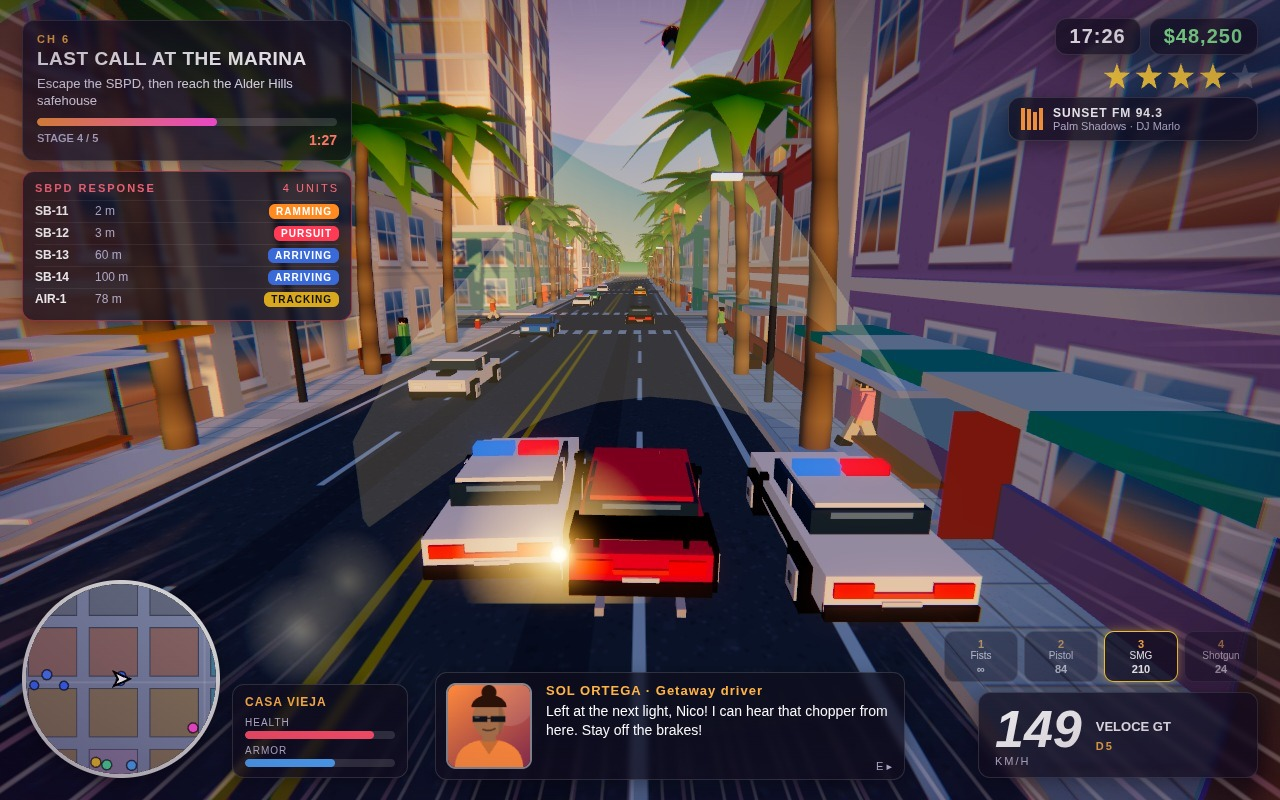
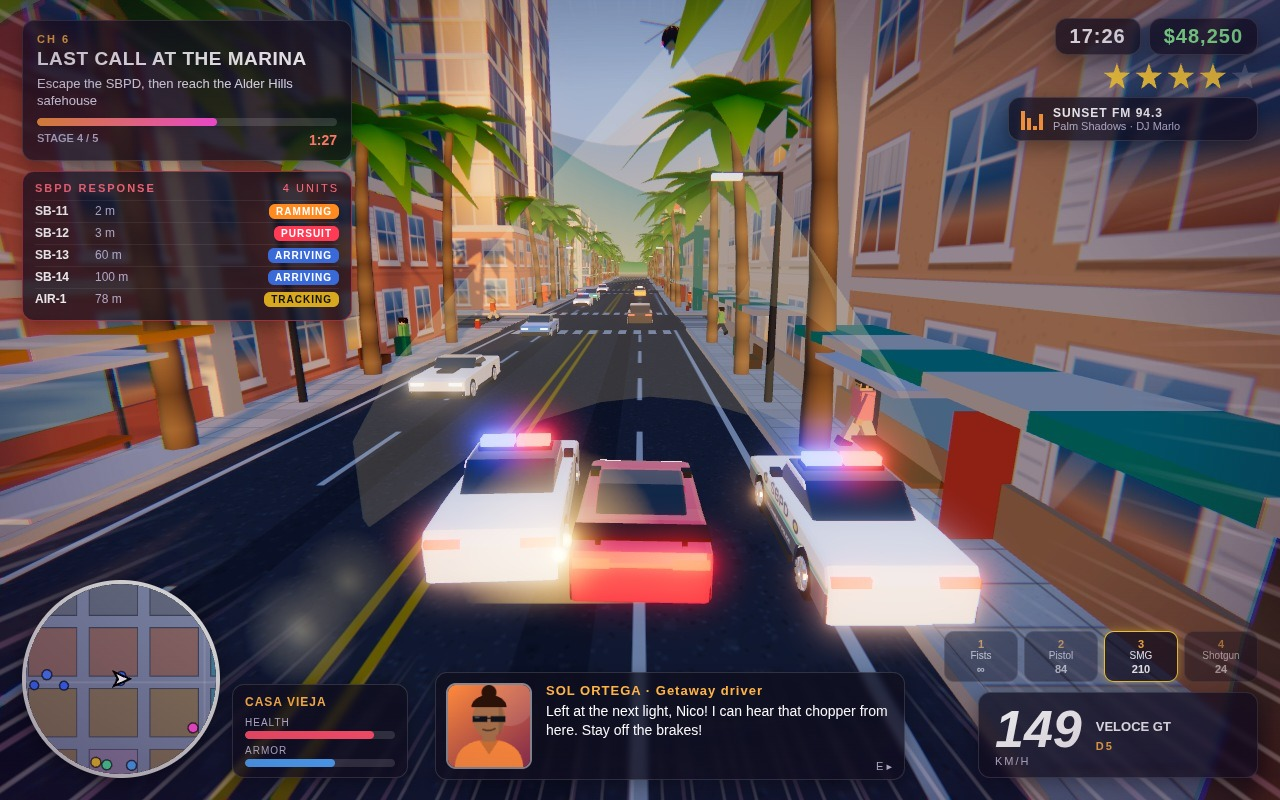
Sleek extruded-profile vehicles, clearcoat paint, env reflections, SBPD livery, HDR light bars

Changed region(s): [[0.1875, 0.0, 1.0, 0.875], [0.9375, 0.625, 0.9688, 0.7188], [0.1562, 0.1875, 0.2188, 0.2188]]

diff --git a/game/src/vehicles/vehicleModels.js b/game/src/vehicles/vehicleModels.js
@@ -1,47 +1,141 @@
-// Original car models built from boxes: shared merged geometry per model, tinted body material per colour.
+// Original low-poly car models: each body is an extruded, bevelled side profile with real wheel arches, a tinted glass
+// greenhouse, body-colour roof, spoked rims, HDR head/tail lights (bloom) and clearcoat paint lit by a sky environment map.
+// The SBPD interceptor wears a canvas-drawn livery (white, navy skirt, teal stripe, SBPD decal) and a red/blue light bar.
 import * as THREE from 'three';
 import { newBuf, pushBox, toGeometry } from '../core/geometryUtils.js';
+import { canvasTex } from '../world/textureFactory.js';
+import { G } from '../core/gameState.js';
 
 export const CAR_TYPES = {
-  veloce: { name: 'Veloce GT', len: 4.5, wid: 1.95, cab: [0.4, 0.38, -0.3], roof: 1.2, max: 62, acc: 24, grip: 7, steer: 0.62, hp: 900, tint: 0xe83a5c },
-  marlin: { name: 'Marlin Sedan', len: 4.7, wid: 1.9, cab: [0.5, 0.5, -0.15], roof: 1.4, max: 40, acc: 15, grip: 8, steer: 0.6, hp: 1000, tint: 0x2f7fd8 },
-  tupelo: { name: 'Tupelo Cab', len: 4.7, wid: 1.9, cab: [0.5, 0.5, -0.15], roof: 1.4, max: 40, acc: 15, grip: 8, steer: 0.6, hp: 1000, tint: 0xf2c230 },
-  cadia: { name: 'Cadia Pickup', len: 5.1, wid: 2.0, cab: [0.34, 0.6, 0.55], roof: 1.7, max: 38, acc: 14, grip: 7, steer: 0.55, hp: 1100, tint: 0x2fb89a },
-  hawke: { name: 'Hawke SUV', len: 4.9, wid: 2.0, cab: [0.62, 0.62, -0.1], roof: 1.75, max: 42, acc: 16, grip: 7.5, steer: 0.55, hp: 1300, tint: 0x222831 },
-  rumble: { name: 'Rumble 69', len: 4.8, wid: 1.95, cab: [0.42, 0.42, -0.25], roof: 1.3, max: 52, acc: 22, grip: 6, steer: 0.6, hp: 1000, tint: 0xff8a3d },
-  interceptor: { name: 'SBPD Interceptor', len: 4.8, wid: 1.95, cab: [0.46, 0.46, -0.15], roof: 1.4, max: 52, acc: 20, grip: 8, steer: 0.62, hp: 900, tint: 0xffffff, police: true },
+  veloce: { name: 'Veloce GT', len: 4.5, wid: 1.95, roof: 1.2, max: 62, acc: 24, grip: 7, steer: 0.62, hp: 900, tint: 0xe83a5c },
+  marlin: { name: 'Marlin Sedan', len: 4.7, wid: 1.9, roof: 1.45, max: 40, acc: 15, grip: 8, steer: 0.6, hp: 1000, tint: 0x2f7fd8 },
+  tupelo: { name: 'Tupelo Cab', len: 4.7, wid: 1.9, roof: 1.45, max: 40, acc: 15, grip: 8, steer: 0.6, hp: 1000, tint: 0xf2c230 },
+  cadia: { name: 'Cadia Pickup', len: 5.1, wid: 2.0, roof: 1.72, max: 38, acc: 14, grip: 7, steer: 0.55, hp: 1100, tint: 0x2fb89a },
+  hawke: { name: 'Hawke SUV', len: 4.9, wid: 2.0, roof: 1.75, max: 42, acc: 16, grip: 7.5, steer: 0.55, hp: 1300, tint: 0x222831 },
+  rumble: { name: 'Rumble 69', len: 4.8, wid: 1.95, roof: 1.32, max: 52, acc: 22, grip: 6, steer: 0.6, hp: 1000, tint: 0xff8a3d },
+  surf: { name: 'Surfline Van', len: 5.0, wid: 2.0, roof: 2.08, max: 36, acc: 12, grip: 7, steer: 0.5, hp: 1300, tint: 0xf0f0f0 },
+  pixie: { name: 'Pixie Hatch', len: 3.8, wid: 1.75, roof: 1.5, max: 40, acc: 16, grip: 8, steer: 0.68, hp: 800, tint: 0x8fd3c8 },
+  riviera: { name: 'Riviera Spider', len: 4.7, wid: 1.9, roof: 1.22, max: 54, acc: 20, grip: 7, steer: 0.6, hp: 900, tint: 0xfff4e6 },
+  interceptor: { name: 'SBPD Interceptor', len: 4.8, wid: 1.95, roof: 1.45, max: 52, acc: 20, grip: 8, steer: 0.62, hp: 900, tint: 0xffffff, police: true },
+};
+const SEDAN = { top: [[-0.5, 0.8], [-0.48, 0.96], [-0.3, 0.99], [-0.22, 0.99], [0.16, 0.96], [0.44, 0.86], [0.5, 0.76], [0.5, 0.38]], cab: [[-0.25, 0.98], [-0.12, 1.42], [0.08, 1.44], [0.19, 0.96]], wb: 0.3, r: 0.37, yb: 0.3, head: [0.72, 0.5], tail: 0.84 };
+const PROFILES = {
+  veloce: { top: [[-0.5, 0.72], [-0.49, 0.88], [-0.4, 0.92], [-0.31, 0.94], [-0.2, 0.9], [0.12, 0.86], [0.24, 0.83], [0.33, 0.82], [0.46, 0.62], [0.5, 0.5], [0.5, 0.36]], cab: [[-0.31, 0.9], [-0.11, 1.17], [0.02, 1.19], [0.16, 0.85]], wb: 0.31, r: 0.37, yb: 0.26, head: [0.58, 0.475], tail: 0.78, cw: 0.72 },
+  rumble: { top: [[-0.5, 0.78], [-0.49, 0.95], [-0.3, 0.96], [-0.14, 0.96], [0.08, 0.94], [0.46, 0.9], [0.5, 0.82], [0.5, 0.38]], cab: [[-0.27, 0.95], [-0.12, 1.3], [0.04, 1.31], [0.13, 0.93]], wb: 0.31, r: 0.38, yb: 0.3, head: [0.76, 0.5], tail: 0.86 },
+  marlin: SEDAN, tupelo: SEDAN, interceptor: SEDAN,
+  hawke: { top: [[-0.5, 0.95], [-0.49, 1.12], [0.18, 1.12], [0.44, 1.04], [0.5, 0.92], [0.5, 0.45]], cab: [[-0.47, 1.11], [-0.44, 1.73], [0.06, 1.75], [0.23, 1.1]], wb: 0.31, r: 0.43, yb: 0.4, head: [0.9, 0.5], tail: 1.0 },
+  cadia: { top: [[-0.5, 0.9], [-0.5, 1.12], [-0.02, 1.12], [0.2, 1.1], [0.44, 1.05], [0.5, 0.92], [0.5, 0.45]], cab: [[-0.03, 1.11], [-0.01, 1.7], [0.12, 1.72], [0.25, 1.09]], wb: 0.32, r: 0.43, yb: 0.4, head: [0.9, 0.5], tail: 1.0 },
+  surf: { top: [[-0.5, 0.5], [-0.5, 2.0], [-0.46, 2.08], [0.22, 2.08], [0.36, 1.6], [0.48, 1.1], [0.5, 0.95], [0.5, 0.45]], cab: [[-0.42, 1.42], [-0.42, 1.86], [0.25, 2.0], [0.377, 1.58], [0.377, 1.42]], wide: true, wb: 0.32, r: 0.4, yb: 0.36, head: [0.85, 0.5], tail: 1.2 },
+  pixie: { top: [[-0.5, 0.8], [-0.49, 1.0], [-0.44, 1.04], [0.14, 0.96], [0.42, 0.84], [0.5, 0.72], [0.5, 0.36]], cab: [[-0.46, 1.03], [-0.40, 1.48], [0.04, 1.5], [0.2, 0.95]], wb: 0.32, r: 0.34, yb: 0.28, head: [0.72, 0.49], tail: 0.92 },
+  riviera: { top: [[-0.5, 0.76], [-0.49, 0.9], [-0.2, 0.92], [0.12, 0.9], [0.44, 0.78], [0.5, 0.68], [0.5, 0.34]], cab: [[0.07, 0.89], [-0.01, 1.22], [0.02, 1.22], [0.11, 0.89]], open: true, wb: 0.3, r: 0.37, yb: 0.28, head: [0.66, 0.49], tail: 0.82 },
 };
 const geoCache = {}, matCache = {};
-const trimMat = new THREE.MeshLambertMaterial({ vertexColors: true });
-function build(key) {
-  const t = CAR_TYPES[key], W = t.wid, L = t.len, body = newBuf(), trim = newBuf(), [cl, ch, co] = t.cab;
-  pushBox(body, 0, 0.35, 0, W, 0.55, L, 0xffffff);
-  if (key === 'cadia') { pushBox(body, 0, 0.9, -L * 0.3, W * 0.95, 0.3, L * 0.38, 0xffffff); }
-  pushBox(trim, 0, 0.92, co * L * 0.3, W * 0.88, ch * 0.82, L * cl, 0x2a4560);
-  for (const sx of [-1, 1]) { pushBox(body, sx * W * 0.43, 0.92, co * L * 0.3, 0.08, ch * 0.82, L * cl * 0.1, 0xffffff); pushBox(trim, sx * (W / 2 + 0.08), 0.95, L * 0.16, 0.14, 0.1, 0.18, 0x15151a); }
-  pushBox(trim, 0, 0.92 + ch * 0.55, co * L * 0.3 - L * cl / 2 - 0.01, W * 0.6, ch * 0.2, 0.02, 0x6f93b4);
-  pushBox(body, 0, 0.92 + ch * 0.82, co * L * 0.3, W * 0.8, 0.07, L * cl * 0.92, 0xffffff);
-  if (key === 'rumble') pushBox(body, 0, 0.9, L * 0.28, 0.5, 0.12, 0.8, 0x111111);
-  if (key === 'veloce') { for (const sx of [-1, 1]) { pushBox(body, sx * 0.62, 0.9, -L * 0.45, 0.08, 0.3, 0.12, 0x111111); pushBox(body, sx * W * 0.47, 1.1, -L * 0.46, 0.06, 0.2, 0.62, 0x111111); pushBox(trim, sx * 0.55, 0.12, -L / 2 - 0.1, 0.12, 0.12, 0.3, 0xb8bcc8); } pushBox(body, 0, 1.18, -L * 0.46, W * 0.98, 0.06, 0.62, 0x111111); for (const sx of [-1, 1]) pushBox(trim, sx * 0.13, 0.9, L * 0.12, 0.14, 0.012, L * 0.38, 0xf4f4f4); }
-  if (t.police) { pushBox(body, 0, 0.45, 0, W + 0.04, 0.2, L * 0.55, 0x101820); pushBox(body, 0, 0.9, L * 0.28, W * 0.5, 0.04, 0.9, 0x101820); }
-  if (key === 'tupelo') pushBox(trim, 0, 0.92 + ch * 0.82 + 0.07, 0, 0.7, 0.22, 0.3, 0xfff2b0);
-  for (const sx of [-1, 1]) {
-    for (const sz of [-1, 1]) { pushBox(trim, sx * (W / 2 - 0.02), 0, sz * L * 0.32, 0.34, 0.74, 0.74, 0x101014); pushBox(trim, sx * (W / 2 + 0.16), 0.14, sz * L * 0.32, 0.05, 0.46, 0.46, 0xc8ced8); pushBox(trim, sx * (W / 2 + 0.19), 0.3, sz * L * 0.32, 0.03, 0.14, 0.14, 0x555a66); }
-    pushBox(trim, sx * (W / 2 - 0.35), 0.62, L / 2 + 0.01, 0.46, 0.2, 0.08, 0xfffbe0); pushBox(trim, sx * (W / 2 - 0.35), 0.6, L / 2 + 0.05, 0.3, 0.12, 0.03, 0xffffff);
-    pushBox(trim, sx * (W / 2 - 0.35), 0.62, -L / 2 - 0.01, 0.5, 0.2, 0.08, 0xff3030);
+const trimMat = new THREE.MeshStandardMaterial({ vertexColors: true, roughness: 0.6, metalness: 0.2 });
+const glassMat = new THREE.MeshPhysicalMaterial({ color: 0x0b1622, metalness: 0.3, roughness: 0.04, clearcoat: 1, clearcoatRoughness: 0.03, envMapIntensity: 1.6 });
+const tireMat = new THREE.MeshStandardMaterial({ color: 0x151518, roughness: 0.85 });
+const rimMat = new THREE.MeshStandardMaterial({ color: 0xd8dde4, metalness: 0.85, roughness: 0.25 });
+const headMat = new THREE.MeshBasicMaterial({ color: new THREE.Color(4.2, 4.0, 3.5) });
+const tailMat = new THREE.MeshBasicMaterial({ color: new THREE.Color(3.4, 0.12, 0.1) });
+const signMat = new THREE.MeshBasicMaterial({ color: new THREE.Color(2.6, 2.2, 1.2) });
+
+function ensureEnv() { // tiny sky environment (azure -> peach horizon, warm sun) prefiltered with PMREM for paint/glass reflections
+  if (G.envTried || !G.renderer || !G.scene) return; G.envTried = true;
+  try {
+    const es = new THREE.Scene(), m = new THREE.ShaderMaterial({ side: THREE.BackSide, depthWrite: false,
+      vertexShader: 'varying vec3 vD; void main(){ vD = normalize(position); gl_Position = projectionMatrix*modelViewMatrix*vec4(position,1.0); }',
+      fragmentShader: `varying vec3 vD; void main(){ vec3 d = normalize(vD); float h = d.y;
+        vec3 c = h > 0.0 ? mix(vec3(1.0, 0.72, 0.5), vec3(0.18, 0.42, 0.9), pow(h, 0.5)) : mix(vec3(0.55, 0.45, 0.4), vec3(0.18, 0.16, 0.16), pow(-h, 0.4));
+        float s = max(dot(d, normalize(vec3(1.0, 0.18, -0.2))), 0.0); c += vec3(6.0, 4.0, 2.2) * pow(s, 300.0) + vec3(0.9, 0.5, 0.25) * pow(s, 8.0);
+        if (abs(h) < 0.12 && d.x < 0.3) c *= 0.55 + 0.45 * step(0.5, fract(atan(d.z, d.x) * 6.0)); gl_FragColor = vec4(c, 1.0); }` });
+    es.add(new THREE.Mesh(new THREE.SphereGeometry(10, 32, 16), m));
+    const pm = new THREE.PMREMGenerator(G.renderer); G.scene.environment = pm.fromScene(es, 0.02, 0.1, 100).texture; pm.dispose();
+  } catch (e) { console.warn('env map unavailable: ' + e.message); }
+}
+function liveryTex() {
+  return canvasTex(512, 256, (g) => {
+    g.fillStyle = '#ffffff'; g.fillRect(0, 0, 512, 256);
+    const yv = (y) => 256 * (1 - y / 1.6);
+    g.fillStyle = '#14254a'; g.fillRect(0, yv(0.66), 512, yv(0) - yv(0.66));
+    g.fillStyle = '#19c2b0'; g.fillRect(0, yv(0.74), 512, yv(0.67) - yv(0.74)); g.fillStyle = '#ffd23a'; g.fillRect(0, yv(0.765), 512, 3);
+    g.fillStyle = '#14254a'; g.font = '900 46px Arial Black, Arial, sans-serif'; g.textAlign = 'center'; g.textBaseline = 'middle'; g.fillText('SBPD', 256, yv(0.88));
+    g.fillStyle = '#ffffff'; g.font = 'bold 15px Arial, sans-serif'; g.fillText('SOLVANE BAY POLICE', 256, yv(0.5)); g.fillText('DIAL 311', 100, yv(0.5)); g.fillText('DIAL 311', 412, yv(0.5));
+    g.fillStyle = '#14254a'; g.beginPath(); g.arc(150, yv(0.88), 16, 0, Math.PI * 2); g.arc(362, yv(0.88), 16, 0, Math.PI * 2); g.fill(); g.fillStyle = '#ffd23a'; g.beginPath(); g.arc(150, yv(0.88), 9, 0, Math.PI * 2); g.arc(362, yv(0.88), 9, 0, Math.PI * 2); g.fill();
+  }, false);
+}
+function mergeGeos(list) {
+  const parts = list.map((g) => (g.index ? g.toNonIndexed() : g)); let n = 0; parts.forEach((p) => { n += p.attributes.position.count; });
+  const pos = new Float32Array(n * 3), nor = new Float32Array(n * 3); let o = 0;
+  for (const p of parts) { pos.set(p.attributes.position.array, o * 3); nor.set(p.attributes.normal.array, o * 3); o += p.attributes.position.count; }
+  const g = new THREE.BufferGeometry(); g.setAttribute('position', new THREE.BufferAttribute(pos, 3)); g.setAttribute('normal', new THREE.BufferAttribute(nor, 3)); return g;
+}
+function extrude(pts, L, depth, bevel) {
+  const sh = new THREE.Shape(pts.map(([z, y]) => new THREE.Vector2(z, y)));
+  const g = new THREE.ExtrudeGeometry(sh, { depth: Math.max(0.05, depth - 2 * bevel), bevelEnabled: bevel > 0, bevelThickness: bevel, bevelSize: bevel * 0.6, bevelSegments: 2, curveSegments: 4 });
+  g.translate(0, 0, -Math.max(0.05, depth - 2 * bevel) / 2); g.rotateY(-Math.PI / 2); return g;
+}
+function bodyOutline(P, L) { // top profile (rear -> front) closed along the sills with arches cut around both wheels
+  const pts = P.top.map(([u, y]) => [u * L, y]), wz = P.wb * L, ra = P.r + 0.07, wy = P.r, top = pts.slice();
+  const topAt = (z) => { for (let i = 1; i < top.length; i++) { const [z0, y0] = top[i - 1], [z1, y1] = top[i]; if (z >= Math.min(z0, z1) && z <= Math.max(z0, z1) && z1 !== z0) return y0 + (y1 - y0) * (z - z0) / (z1 - z0); } return 9; };
+  for (const c of [wz, -wz]) {
+    pts.push([c + ra, P.yb]);
+    for (let k = 0; k <= 8; k++) { const a = k / 8 * Math.PI; const z = c + Math.cos(a) * ra; pts.push([z, Math.min(topAt(z) - 0.1, Math.max(P.yb, wy + Math.sin(a) * ra))]); }
+    pts.push([c - ra, P.yb]);
   }
-  pushBox(trim, 0, 0.62, -L / 2 - 0.02, W * 0.4, 0.07, 0.06, 0xff4a4a); pushBox(trim, 0, 0.4, -L / 2 - 0.03, 0.5, 0.16, 0.03, 0xf2f2ee); pushBox(trim, 0, 0.3, L / 2, W, 0.2, 0.12, 0x222226); pushBox(trim, 0, 0.3, -L / 2, W, 0.2, 0.12, 0x222226);
-  return { body: toGeometry(body), trim: toGeometry(trim) };
+  pts.push([-0.5 * L, P.yb]); return pts;
+}
+function build(key) {
+  const t = CAR_TYPES[key], P = PROFILES[key], L = t.len, W = t.wid, out = {};
+  const body = extrude(bodyOutline(P, L), L, W, 0.09);
+  // livery UVs: body sides read along the car on both flanks; every other face samples the plain white top of the livery
+  const pa = body.attributes.position, na = body.attributes.normal, uv = new Float32Array(pa.count * 2);
+  for (let i = 0; i < pa.count; i++) { const nx = na.getX(i), z = pa.getZ(i), y = pa.getY(i); if (Math.abs(nx) > 0.6) { uv[i * 2] = nx > 0 ? 0.5 - z / L : 0.5 + z / L; uv[i * 2 + 1] = y / 1.6; } else { uv[i * 2] = 0.5; uv[i * 2 + 1] = 0.985; } }
+  body.setAttribute('uv', new THREE.BufferAttribute(uv, 2)); out.body = body;
+  const cabPts = P.cab.map(([u, y]) => [u * L, y]), cw = P.wide ? W + 0.03 : W * (P.cw || 0.78);
+  out.glass = extrude(cabPts, L, cw, P.open ? 0.02 : 0.05);
+  if (!P.open && !P.wide) { const [rb, rt, ft, fb] = cabPts, lp = (a, b, k) => [a[0] + (b[0] - a[0]) * k, a[1] + (b[1] - a[1]) * k]; out.roof = extrude([lp(rt, rb, 0.16), rt, ft, lp(ft, fb, 0.12)], L, cw + 0.04, 0.03); }
+  const T = newBuf(), wz = P.wb * L;
+  pushBox(T, 0, P.yb - 0.04, P.top.at(-1)[0] * L - 0.02, W * 0.98, 0.26, 0.16, 0x1a1c20); pushBox(T, 0, P.yb - 0.04, -L / 2 + 0.04, W * 0.98, 0.24, 0.16, 0x1a1c20); // bumpers / diffuser
+  pushBox(T, 0, P.yb + 0.08, L / 2 - 0.06, W * 0.46, 0.16, 0.1, 0x0c0d10); // grille
+  for (const sx of [-1, 1]) { pushBox(T, sx * (W / 2 + 0.02), P.yb - 0.02, 0, 0.08, 0.12, wz * 2 - P.r * 2 - 0.2, 0x1a1c20); pushBox(T, sx * (cw / 2 + 0.12), P.cab[0][1] + 0.08, P.cab.at(-1)[0] * L - 0.25, 0.18, 0.12, 0.22, 0x1a1c20); }
+  if (key === 'veloce') { for (const sx of [-0.6, 0.6]) pushBox(T, sx, 0.86, -L * 0.45, 0.07, 0.26, 0.14, 0x111111); pushBox(T, 0, 1.1, -L * 0.455, W * 0.96, 0.05, 0.42, 0x111111); for (const sx of [-1, 1]) pushBox(T, sx * 0.45, 0.62, L * 0.18, 0.5, 0.012, 0.9, 0x111111); }
+  if (key === 'rumble') pushBox(T, 0, 0.92, L * 0.22, 0.6, 0.14, 1.0, 0x111111);
+  if (key === 'cadia') pushBox(T, 0, 1.0, -L * 0.26, W - 0.22, 0.14, L * 0.44, 0x26282c);
+  if (key === 'riviera') { pushBox(T, 0, 0.84, -L * 0.07, W - 0.3, 0.09, L * 0.26, 0x3a1f18); for (const sx of [-0.42, 0.42]) { pushBox(T, sx, 0.88, -L * 0.12, 0.6, 0.3, 0.5, 0xc89870); pushBox(T, sx, 0.9, -L * 0.17, 0.6, 0.62, 0.12, 0xc89870); } }
+  if (key === 'surf') for (const sx of [-1, 1]) pushBox(T, sx * 0.62, 2.08, 0, 0.08, 0.1, L * 0.6, 0x2a2c30);
+  if (t.police) { pushBox(T, 0, t.roof, 0, 1.3, 0.08, 0.36, 0x1a1c22); pushBox(T, 0, 0.3, L / 2 + 0.06, W * 0.7, 0.36, 0.08, 0x111216); }
+  out.trim = toGeometry(T);
+  const tires = [], rims = [], tw = 0.3;
+  for (const sx of [-1, 1]) for (const sz of [-1, 1]) {
+    const x = sx * (W / 2 - 0.16), z = sz * wz, ty = new THREE.CylinderGeometry(P.r, P.r, tw, 18); ty.rotateZ(Math.PI / 2); ty.translate(x, P.r, z); tires.push(ty);
+    const disc = new THREE.CylinderGeometry(P.r * 0.66, P.r * 0.66, 0.04, 18); disc.rotateZ(Math.PI / 2); disc.translate(x + sx * (tw / 2 - 0.01), P.r, z); rims.push(disc);
+    for (let k = 0; k < 5; k++) { const sp = new THREE.BoxGeometry(0.05, P.r * 1.22, 0.075); sp.rotateX(k / 5 * Math.PI * 2); sp.translate(x + sx * (tw / 2 + 0.02), P.r, z); rims.push(sp); }
+    const hub = new THREE.CylinderGeometry(0.07, 0.07, 0.08, 8); hub.rotateZ(Math.PI / 2); hub.translate(x + sx * (tw / 2 + 0.03), P.r, z); rims.push(hub);
+  }
+  out.tires = mergeGeos(tires); out.rims = mergeGeos(rims);
+  const hz = P.head[1] * L, [hy] = P.head, H = [], R = [];
+  for (const sx of [-1, 1]) { const hl = new THREE.BoxGeometry(0.44, 0.11, 0.3); hl.translate(sx * (W / 2 - 0.32), hy, hz - 0.08); H.push(hl);
+    const tl = new THREE.BoxGeometry(0.5, 0.12, 0.2); tl.translate(sx * (W / 2 - 0.3), P.tail, -L / 2 + 0.02); R.push(tl); }
+  if (key === 'veloce' || key === 'riviera') { const strip = new THREE.BoxGeometry(W * 0.62, 0.05, 0.2); strip.translate(0, P.tail - 0.02, -L / 2 + 0.03); R.push(strip); }
+  out.head = mergeGeos(H); out.tail = mergeGeos(R); return out;
+}
+function paint(key, c) {
+  const mk = `${key}${c}`; if (matCache[mk]) return matCache[mk];
+  const police = CAR_TYPES[key].police;
+  return (matCache[mk] = new THREE.MeshPhysicalMaterial({ color: c, map: police ? (matCache.livery ||= liveryTex()) : null, metalness: police ? 0.05 : 0.25, roughness: 0.32, clearcoat: 1, clearcoatRoughness: 0.05, envMapIntensity: 1.1 }));
 }
 export function buildCarMesh(key, tint) {
-  const g = geoCache[key] || (geoCache[key] = build(key)); const t = CAR_TYPES[key], c = tint ?? t.tint;
-  const mk = `${key}${c}`; const mat = matCache[mk] || (matCache[mk] = new THREE.MeshLambertMaterial({ color: c, vertexColors: true }));
-  const grp = new THREE.Group(); const a = new THREE.Mesh(g.body, mat), b = new THREE.Mesh(g.trim, trimMat); a.castShadow = b.castShadow = true; grp.add(a, b); grp.userData.bodyMesh = a;
+  ensureEnv();
+  const g = geoCache[key] || (geoCache[key] = build(key)); const t = CAR_TYPES[key], c = tint ?? t.tint, pm = paint(key, c);
+  const grp = new THREE.Group(), a = new THREE.Mesh(g.body, pm); a.castShadow = true; grp.add(a); grp.userData.bodyMesh = a;
+  const glass = new THREE.Mesh(g.glass, glassMat); glass.castShadow = true; grp.add(glass);
+  if (g.roof) grp.add(new THREE.Mesh(g.roof, pm));
+  const tr = new THREE.Mesh(g.trim, trimMat), ti = new THREE.Mesh(g.tires, tireMat), ri = new THREE.Mesh(g.rims, rimMat); ti.castShadow = true; grp.add(tr, ti, ri, new THREE.Mesh(g.head, headMat), new THREE.Mesh(g.tail, tailMat));
+  if (key === 'tupelo') { const s = new THREE.Mesh(new THREE.BoxGeometry(0.75, 0.24, 0.3), signMat); s.position.set(0, t.roof + 0.12, -0.2); grp.add(s); }
   if (t.police) {
-    const r = new THREE.Mesh(new THREE.BoxGeometry(0.7, 0.2, 0.35), new THREE.MeshBasicMaterial({ color: 0xff3040 })), bl = new THREE.Mesh(new THREE.BoxGeometry(0.7, 0.2, 0.35), new THREE.MeshBasicMaterial({ color: 0x4080ff }));
-    r.position.set(-0.4, t.roof + 0.05, 0); bl.position.set(0.4, t.roof + 0.05, 0); grp.add(r, bl); grp.userData.bar = { r, b: bl };
+    const mk = (col, x) => { const m = new THREE.Mesh(new THREE.BoxGeometry(0.58, 0.16, 0.3), new THREE.MeshBasicMaterial({ color: col })); m.position.set(x, t.roof + 0.15, 0); grp.add(m); return m; };
+    grp.userData.bar = { r: mk(new THREE.Color(5, 0.3, 0.35), -0.32), b: mk(new THREE.Color(0.3, 0.8, 6), 0.32) };
   }
   return grp;
 }
-export const CIVIL_TYPES = ['marlin', 'marlin', 'tupelo', 'cadia', 'hawke', 'rumble', 'veloce'];
-export const burntMat = new THREE.MeshLambertMaterial({ color: 0x1a1a1a, vertexColors: true });
+export const CIVIL_TYPES = ['marlin', 'marlin', 'tupelo', 'cadia', 'hawke', 'rumble', 'veloce', 'surf', 'pixie', 'pixie', 'riviera'];
+export const burntMat = new THREE.MeshLambertMaterial({ color: 0x1a1a1a });

diff --git a/game/src/combat/effects.js b/game/src/combat/effects.js
@@ -40,7 +40,7 @@ export function skidMark(x, z, heading) {
 }
 export function addSiren(car, scene) {
   const mk = (c) => { const s = new THREE.Sprite(new THREE.SpriteMaterial({ map: glow, color: c, transparent: true, depthWrite: false, blending: THREE.AdditiveBlending })); s.scale.setScalar(3.4); scene.add(s); return s; };
-  car.siren = { gR: mk(0xff2030), gB: mk(0x2060ff), ph: Math.random() * 6 }; sirens.add(car);
+  car.siren = { gR: mk(new THREE.Color(2.4, 0.15, 0.2)), gB: mk(new THREE.Color(0.2, 0.45, 2.8)), ph: Math.random() * 6 }; sirens.add(car);
 }
 export function removeSiren(car) { if (car.siren) { car.siren.gR.removeFromParent(); car.siren.gB.removeFromParent(); } sirens.delete(car); }
 export function updateEffects(dt) {
@@ -55,7 +55,7 @@ export function updateSirens(t) {
   for (const c of sirens) {
     if (c.dead || !c.mesh) continue; const s = c.siren, f = Math.floor((t * 5 + s.ph) % 2) === 0, a = Math.sin(c.heading), b = Math.cos(c.heading), h = c.type.roof + 0.25;
     s.gR.position.set(c.x + a * 0.2 + b * 0.5, h, c.z + b * 0.2 - a * 0.5); s.gB.position.set(c.x + a * 0.2 - b * 0.5, h, c.z + b * 0.2 + a * 0.5);
-    s.gR.visible = f; s.gB.visible = !f; if (c.bar) { c.bar.r.material.color.setHex(f ? 0xff3040 : 0x401018); c.bar.b.material.color.setHex(f ? 0x101840 : 0x4080ff); }
+    s.gR.visible = f; s.gB.visible = !f; if (c.bar) { c.bar.r.material.color.setRGB(f ? 6 : 0.3, f ? 0.35 : 0.02, f ? 0.4 : 0.04); c.bar.b.material.color.setRGB(f ? 0.02 : 0.35, f ? 0.05 : 0.9, f ? 0.3 : 7); }
   }
 }
 

diff --git a/game/src/render/postProcessing.js b/game/src/render/postProcessing.js
@@ -41,7 +41,7 @@ export function createPost(renderer, opts = {}) {
   const half = [mk(1, 1), mk(1, 1)], quarter = [mk(1, 1), mk(1, 1)];
   const quad = new THREE.Mesh(new THREE.PlaneGeometry(2, 2)), cam = new THREE.OrthographicCamera(-1, 1, 1, -1, 0, 1), qs = new THREE.Scene(); quad.frustumCulled = false; qs.add(quad);
   const sm = (fs, uniforms) => new THREE.ShaderMaterial({ vertexShader: VS, fragmentShader: fs, uniforms, depthTest: false, depthWrite: false, toneMapped: false });
-  const bright = sm(BRIGHT, { tSrc: { value: null }, threshold: { value: 1.0 }, knee: { value: 0.5 } });
+  const bright = sm(BRIGHT, { tSrc: { value: null }, threshold: { value: 1.7 }, knee: { value: 0.7 } });
   const blur = sm(BLUR, { tSrc: { value: null }, dir: { value: new THREE.Vector2() } });
   const copy = sm(COPY, { tSrc: { value: null } });
   const comp = sm(COMPOSITE, { tScene: { value: sceneRT.texture }, tBloomA: { value: half[0].texture }, tBloomB: { value: quarter[0].texture }, exposure: { value: 1.0 }, bloom: { value: 1.0 },
